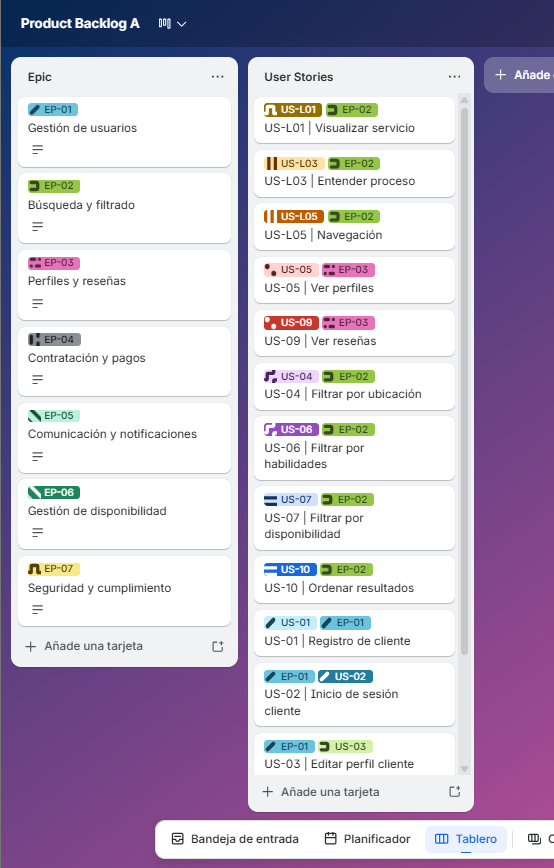
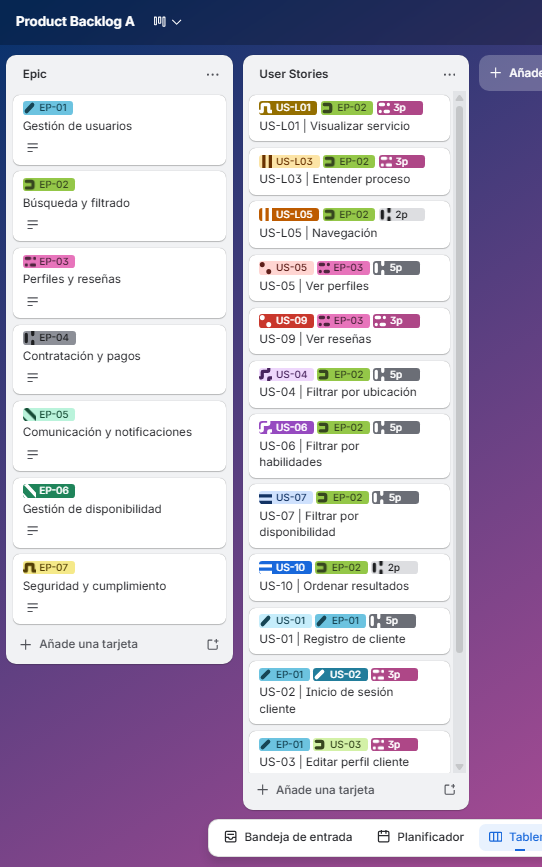
docs: add details in sections chapter 1 and 2

Changed region(s): [[0.2657, 0.0623, 1.0, 0.9965], [0.0, 0.0, 0.4133, 0.7785], [0.3838, 0.0623, 0.4133, 0.0934]]

diff --git a/README.md b/README.md
@@ -192,10 +192,13 @@ El objetivo de este proyecto es facilitar la búsqueda de un empleado del hogar 
 -
 
 <p align="center">
-    <img src="assets/integrantes/Valverde.jpeg" alt="Valverde" width="170px"/>
+    <img src="assets/integrantes/Valverde.png" alt="Valverde" width="170px"/>
 </p>
+
 - Valverde Portuguez, Natalia Ximena - u20231a816 (Ingeniería de Software)
--
+<p>
+Estudiante de Ingeniería de Software en la Universidad Peruana de Ciencias Aplicadas (UPC). Cuento con conocimientos de Marketing y estoy interesada en el UX Design y data analysis. Experiencia en trabajos de creación de startups en el ámbito laboral, lo que fortalece mis capacidades tanto en trabajos grupales e individuales como para las bases de un proyecto.
+</p>
 
 <p align="center">
     <img src="assets/integrantes/Vara.png" alt="Vara" width="170px"/>
@@ -321,7 +324,7 @@ Se incremente en un 25% el número de pagos realizados dentro de la plataforma y
 ##### 1.2.2.4. Lean UX Canvas
 
 <p align="center">
-  <img src="./assets/leanuxcanva.png" alt="Lean UX Canva" width="550">
+  <img src="./assets/leanuxcanvas/leanuxcanvas.png" alt="Lean UX Canva" width="550">
 </p>
 
 ### 1.3. Segmentos Objetivos
@@ -437,6 +440,7 @@ Asimismo, InCleanHome aprovechará el crecimiento del uso de plataformas digital
 
 #### Entrevista 1
 
+
 <p align="center">
   <img src="./assets/entrevistas/videos/entrevista1.jpg" alt="entrevista1" width="400">
 </p>
@@ -446,11 +450,10 @@ RESUMEN
 | **Detalle**          | **Información**                                                                 |
 |----------------------|---------------------------------------------------------------------------------|
 | **Entrevistador**    | Braden G.                                                     |
-| **Entrevistado**     | Eduardo C.                                                        |
+| **Entrevistado**     | Eduardo Chacarías Aminallo C.                                                        |
 | **Edad**             | 26                                                    |
 | **Inicio entrevista**| 00:00:00                                                      |
 | **Duración**         | 00:02:25                                                   |
-| **Enlace**           | https://drive.google.com/file/d/1kQ9oS1SqLzvjqrr3wCsFIOb-kiLa2Ihc/view?usp=drive_link |  
 
 #### Entrevista 2
 
@@ -503,7 +506,6 @@ RESUMEN
 | **Edad**             | 22                                                   |
 | **Inicio entrevista**| 00:00:00                                                      |
 | **Duración**         | 00:04:22                                                   |
-| **Enlace**           |https://drive.google.com/file/d/1D6v2lHMg_WyhY16jSSCmDQBX1xDwg8Ev/view?usp=drive_link  |
 
 
 #### Entrevista 5
@@ -521,8 +523,6 @@ RESUMEN
 | **Edad**             | - 31                                                   |
 | **Inicio entrevista**| - 0:21                                                     |
 | **Duración**         | - 5:08                                                    |
-| **Enlace**           | - https://drive.google.com/drive/u/0/folders/1dYtz3fnogOfIkAy2q4G9rz7-_puBFgJK |  
-
 
 #### Entrevista 6
 
@@ -540,6 +540,10 @@ RESUMEN
 | **Inicio entrevista**| -                                                      |
 | **Duración**         | -                                                   |
 | **Enlace**           | - |  
+
+**Link Entrevistas** 
+
+ https://upcedupe-my.sharepoint.com/:v:/g/personal/u202317450_upc_edu_pe/IQB4sWvXGFrJT51Xtaludz0bAQtj2ECqeyWvBBIk5x_p6a8?e=XxVqfT&nav=eyJyZWZlcnJhbEluZm8iOnsicmVmZXJyYWxBcHAiOiJTdHJlYW1XZWJBcHAiLCJyZWZlcnJhbFZpZXciOiJTaGFyZURpYWxvZy1MaW5rIiwicmVmZXJyYWxBcHBQbGF0Zm9ybSI6IldlYiIsInJlZmVycmFsTW9kZSI6InZpZXcifX0%3D
 
 
 #### 2.2.3. Análisis de entrevistas
@@ -738,7 +742,6 @@ Asistencia brindada a los usuarios para resolver dudas, problemas o inconvenient
 
 ### 3.1. User Stories
 
-# User Stories
 
 | Epic / Story ID | Título | Descripción | Criterios de Aceptación | Relacionado con (Epic ID) |
 |----------------|--------|------------|--------------------------|----------------------------|